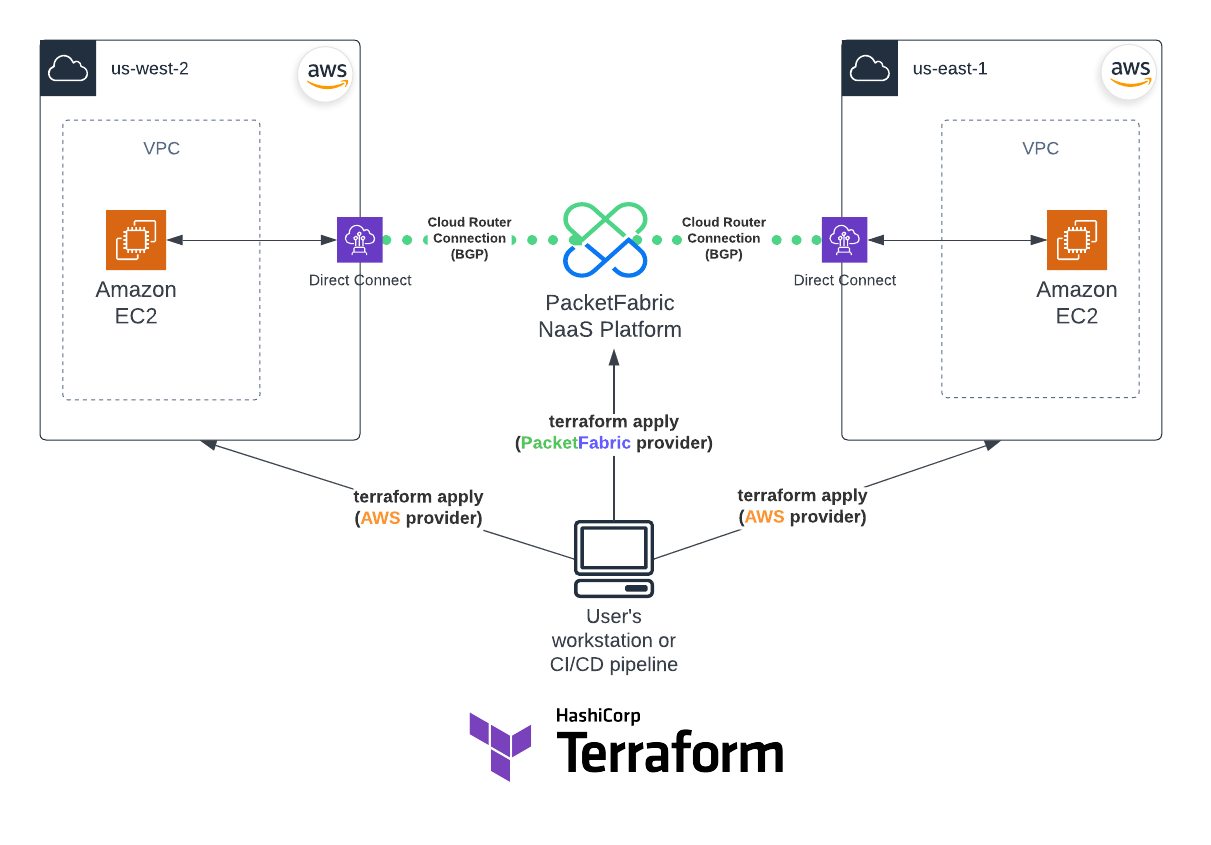
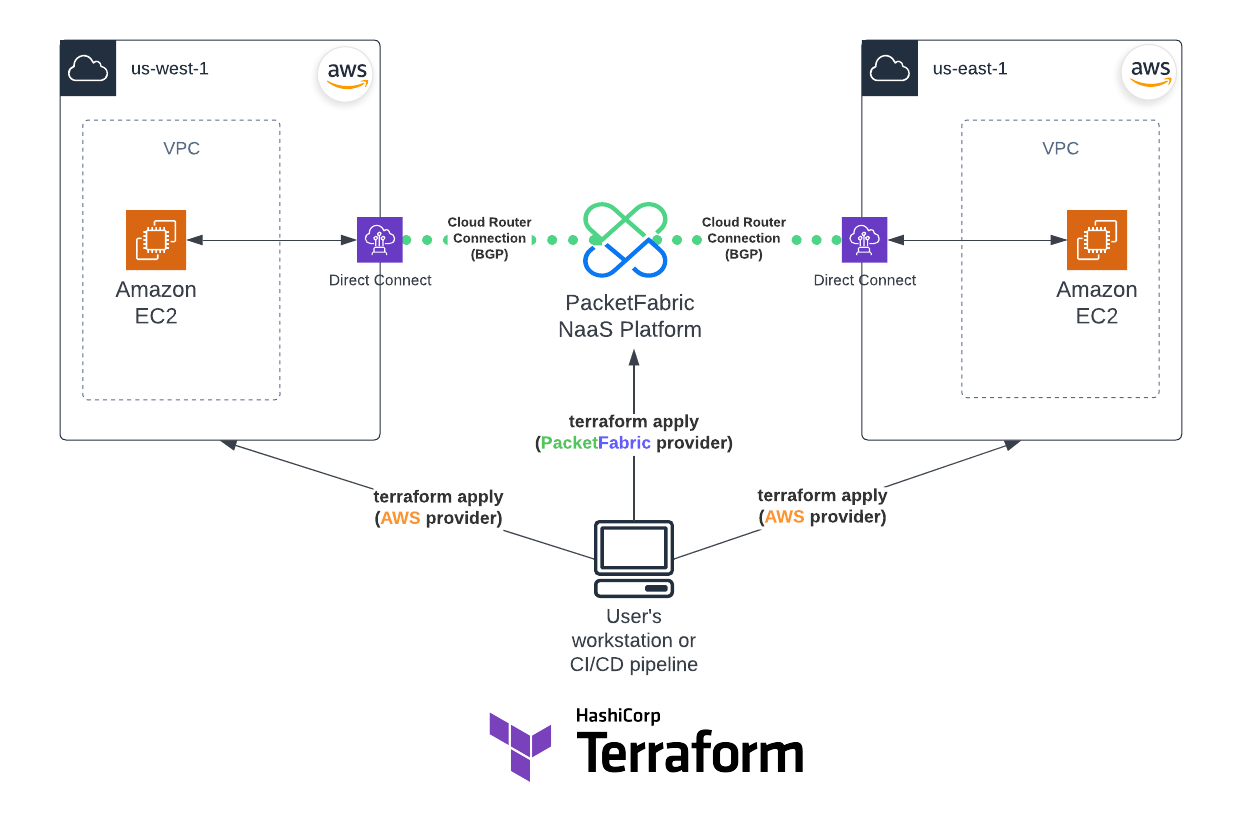
few minor changes

diff --git a/examples/use-cases/cloud_router_aws/README.md b/examples/use-cases/cloud_router_aws/README.md
@@ -41,7 +41,7 @@ to automate the connection setup between 2 AWS regions using PacketFabric Cloud 
 
 **Estimated time:** ~15 min for AWS & PacketFabric resources + ~10-15 min for AWS Direct Connect Gateway association with AWS Virtual Private Gateways
 
-**Warning**: Make sure you set the correct AWS region based on the PacketFabric pop selected (find details on location [here](https://packetfabric.com/locations/cloud-on-ramps) and [here](https://aws.amazon.com/directconnect/locations/). Essentially, select the PacketFabric pop the closest to the AWS region you want to connect to. Example: PacketFabric pop ``LAX1`` is the closest to AWS region ``us-west-1`` in-use.
+**Warning**: Make sure you set the correct AWS region based on the PacketFabric pop selected (find details on location [here](https://packetfabric.com/locations/cloud-on-ramps) and [here](https://aws.amazon.com/directconnect/locations/). Essentially, select the PacketFabric pop the closest to the AWS region you want to connect to. Example: AWS region ``us-west-1`` is the closest to PacketFabric pop ``LAX1``.
 
 ## Before You Begin
 
@@ -85,7 +85,7 @@ Apply the plan:
 terraform apply -var-file="secret.tfvars"
 ```
 
-**Note 1:** You can edit the ``variables.tf`` file and change some of the default variables (default AWS regions used are ``us-west-2`` and ``us-east-1``, PacketFabric pops ``PDX2`` and ``NYC1``).
+**Note 1:** You can edit the ``variables.tf`` file and change some of the default variables (default AWS regions used are ``us-west-1`` and ``us-east-1``, PacketFabric pops ``LAX1`` and ``NYC1``).
 
 **Note 2:** Default login/password for Locust is ``demo:packetfabric`` edit ``user-data-ubuntu.sh`` script to change it.
 
